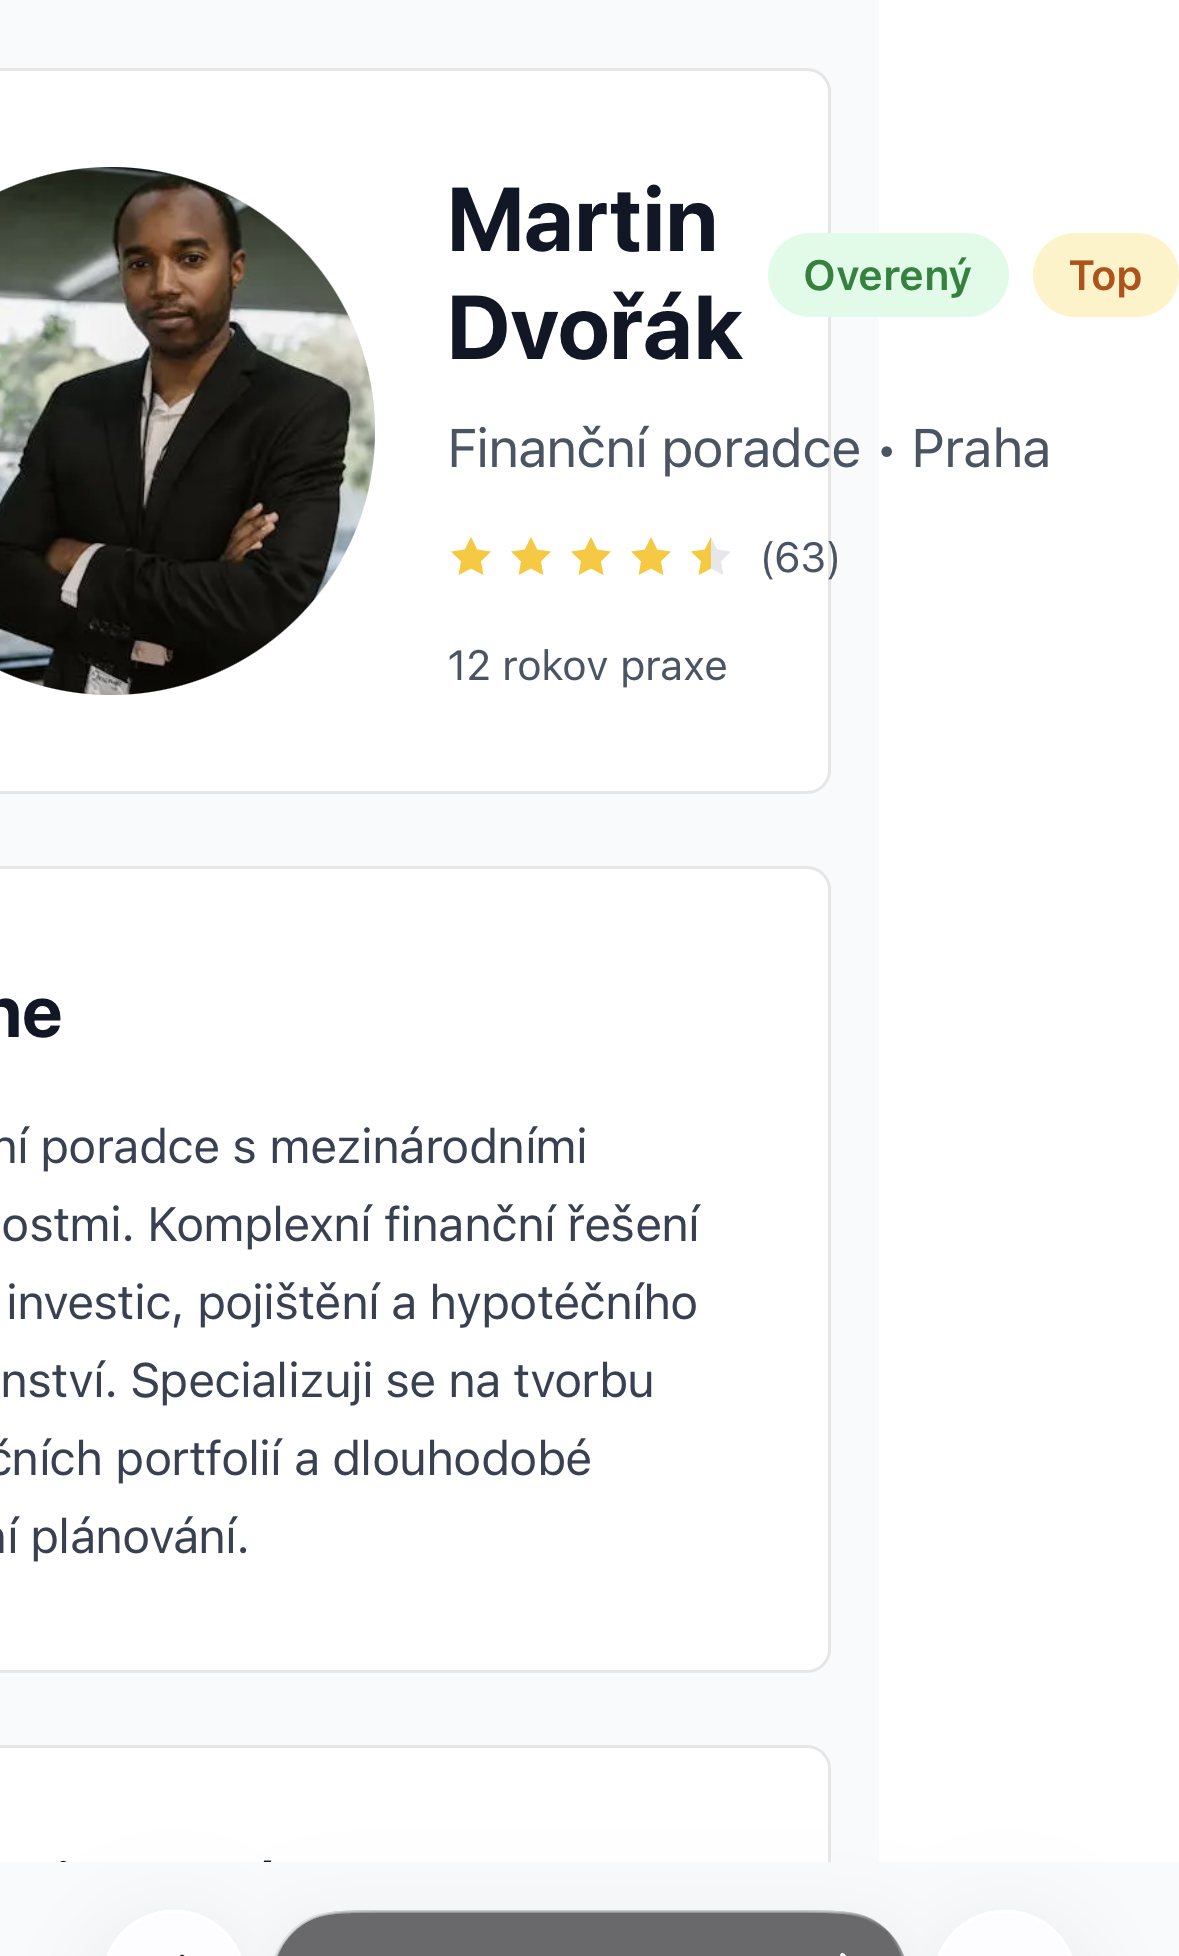
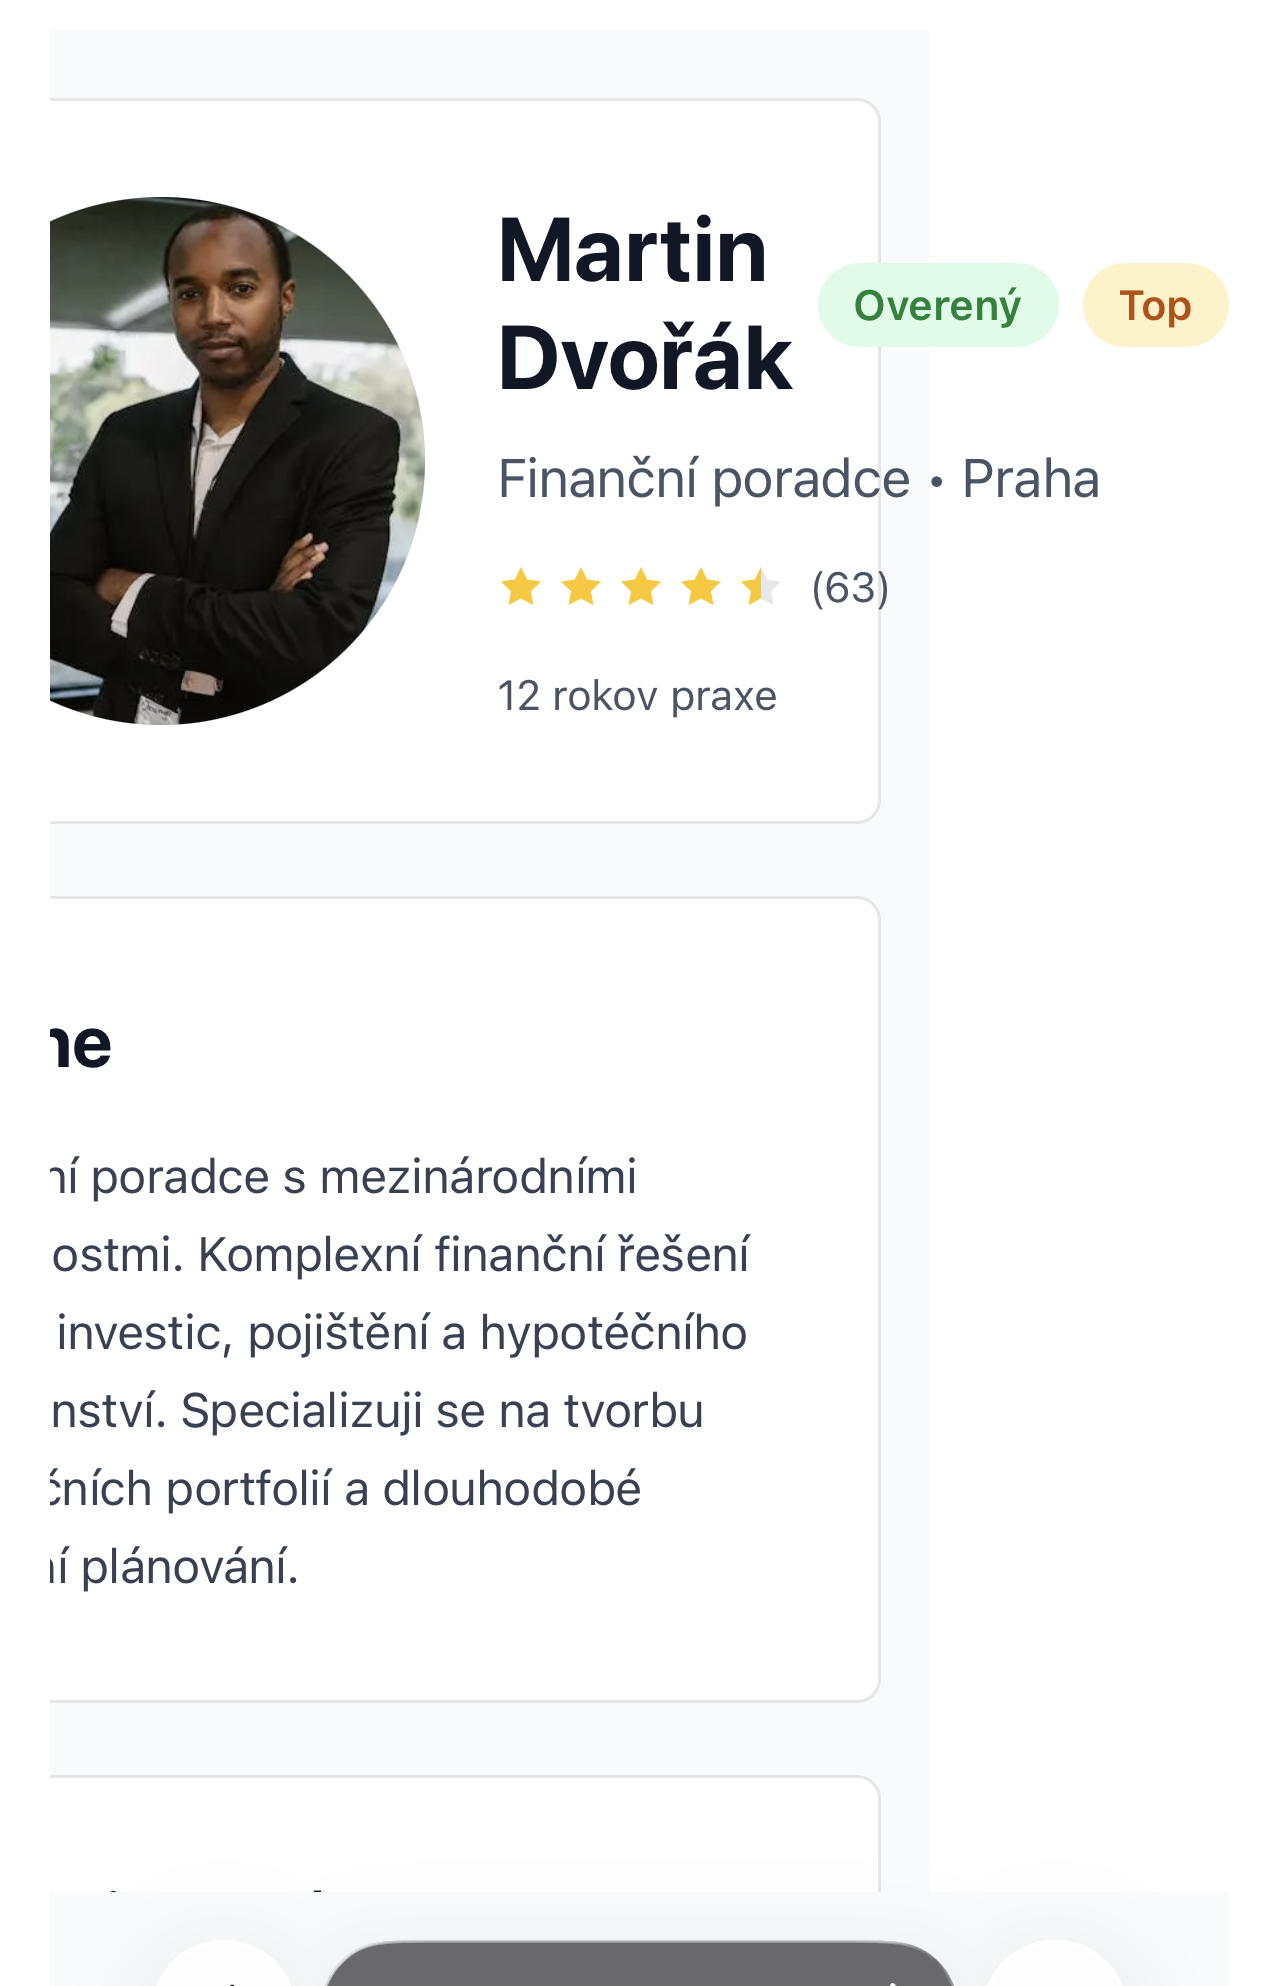
fix: phone mockup badges + GDPR/terms link navigation
Phone mockup:
- Added 50px white padding on left/right edges of cropped image
  via sharp.extend() — badges "Overený" and "Top" now have margin
  from the phone frame's rounded corners, no more clipping

GDPR/Terms links:
- Added onClick={e => e.stopPropagation()} to prevent label
  from toggling checkbox when clicking the link
- Added target="_blank" rel="noopener noreferrer" to open legal
  pages in new tab (standard UX for terms/privacy links)

diff --git a/app/[locale]/profi/registrace/page.tsx b/app/[locale]/profi/registrace/page.tsx
@@ -854,7 +854,7 @@ export default function RegistrationPage() {
                       />
                       <span className="text-sm text-gray-700 dark:text-gray-300">
                         {t('termsAgree')}{' '}
-                        <Link href="/pravidla" className="text-blue-600 hover:underline">
+                        <Link href="/pravidla" target="_blank" rel="noopener noreferrer" className="text-blue-600 hover:underline" onClick={(e) => e.stopPropagation()}>
                           {t('termsLink')}
                         </Link>{' '}
                         <span aria-hidden="true">*</span>
@@ -878,7 +878,10 @@ export default function RegistrationPage() {
                         {t('gdprAgree')}{' '}
                         <Link
                           href="/ochrana-osobnich-udaju"
+                          target="_blank"
+                          rel="noopener noreferrer"
                           className="text-blue-600 hover:underline"
+                          onClick={(e) => e.stopPropagation()}
                         >
                           {t('gdprLink')}
                         </Link>{' '}
